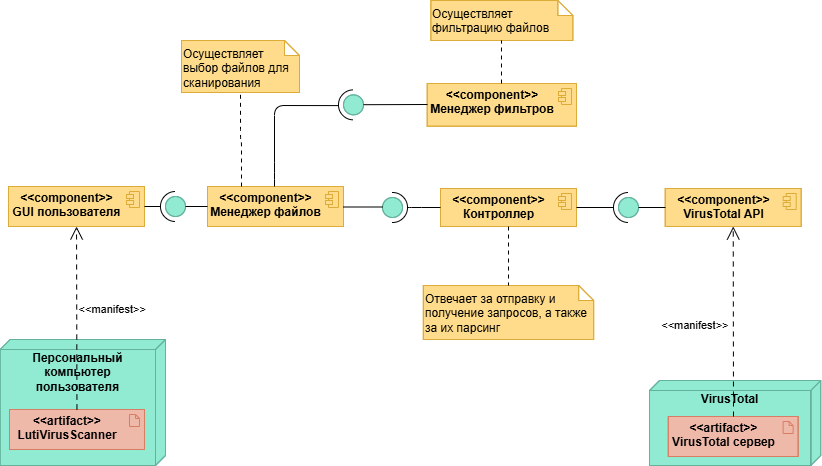
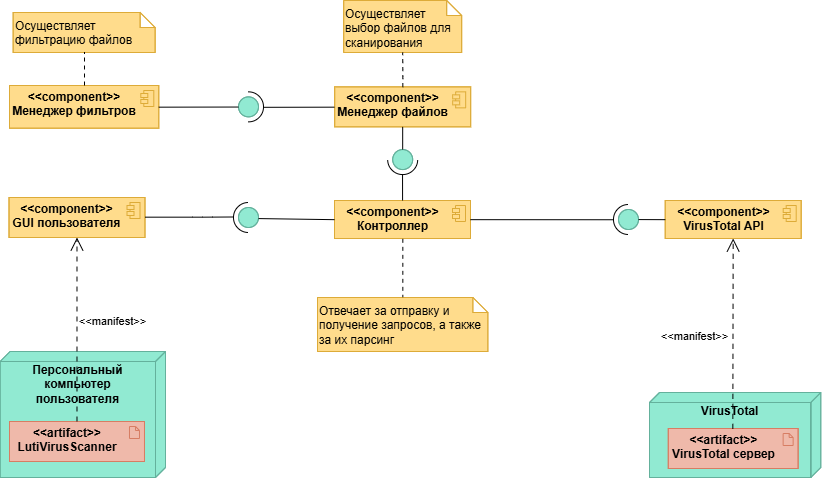
Added ClassDiagram and event flow, changed component diagram

diff --git a/docs/diagrams/Diagrams.md b/docs/diagrams/Diagrams.md
@@ -120,3 +120,83 @@
 
 <a name="log_in_event"/>
 
+## 8.1 — Ввод API-ключа
+
+**Описание.** Пользователь вводит персональный API-ключ для работы с сервисом VirusTotal.
+**Предусловия.** Приложение запущено впервые или API-ключ отсутствует/некорректен.
+**Основной поток.**
+1. Приложение отображает окно входа в приложение и запрашивает ввод API-ключа.
+2. Пользователь вводит ключ в поле.
+3. Пользователь нажимает «Confirm».
+4. Приложение проверяет валидность ключа через запрос к VirusTotal. Если проверка не пройдена, выполняется альтернативный поток А1. Если соединение отсутствует, выполняется альтернативный поток А2.
+5. Приложение скрывает окно входа и открывает главное окно приложения.
+6. Вариант использования завершается.
+
+**Альтернативные поток А1.**
+1. Приложение выводит окно с сообщением о некорректном API-ключе.
+2. Возврат к п.2 основного потока.
+
+**Альтернативные поток А2.**
+1. Приложение выводит окно с сообщением об отсутствии подключения.
+2. Возврат к п.2 основного потока.
+
+Постусловие:
+Ключ сохранён и приложение переходит к главному окну.
+
+## 8.2 — Выбор файла или папки для проверки
+
+**Описание.** Пользователь выбирает путь для проверки на вредоносное ПО.
+**Основной поток.**
+1. Приложение отображает главное окно программы.
+2. Пользователь нажимает «Choose file or directory».
+3. Приложение открывает системный диалог выбора пути.
+4. Пользователь подтверждает выбор.
+5. Приложение проверяет наличие файлов в папке. Если папка пуста, выполняется альтернативный поток А3.
+6. Приложение проверяет валидность ключа через запрос к VirusTotal. Если проверка не пройдена, выполняется альтернативный поток А4. Если соединение отсутствует, выполняется альтернативный поток А5.
+7. Приложение проводит фильтрацию выбранных файлов согласно заданным пользователем фильтров.
+8. Приложение отправляет запрос на сканирование этих файлов.
+9. Приложение отправляет запрос на получение отчетов о сканировании файлов.
+10. Приложение выводит в главном окне результаты сканирования файлов.
+11. Вариант использования завершается.
+
+**Альтернативные поток А3.**
+1. Приложение выводит окно с сообщением о выборе папки без каких-либо файлов.
+2. Возврат к п.2 основного потока.
+
+**Альтернативные поток А4.**
+1. Приложение выводит окно с сообщением о некорректном API-ключе.
+2. Возврат к п.2 основного потока.
+
+**Альтернативные поток А5.**
+1. Приложение выводит окно с сообщением об отсутствии подключения.
+2. Возврат к п.2 основного потока.
+
+## 8.3 — Сохранение детального отчёта
+
+**Описание.** Пользователь изучает детальную информацию по анализу файла.
+**Предусловия.** Анализ файла был выполнен.
+**Основной поток.**
+1. Приложение отображает главное окно программы.
+2. Пользователь нажимает на файл в списке проанализированных файлов.
+3. Приложение открывает окно с детальным отчётом.
+4. Пользователь нажимает на кнопку "Save".
+5. Приложение открывает системный диалог выбора пути для сохранения отчета.
+6. Вариант использования завершается.
+
+## 8.4 — Настройка фильтров проверки
+
+**Описание.** Пользователь устанавливает критерии отбора файлов.
+**Предусловия.** Пользователь нажал на кнопку "Filter settings" в главном окне.
+**Основной поток.**
+1. Приложение отображает окно с текущими фильтрами.
+2. Пользователь указывает расширения или названия файлов для фильтрации.
+3. Пользователь нажимает на кнопку "Save".
+4. Приложение проверяет новые фильтры. Если проверка не пройдена, выполняется альтернативный поток А6.
+5. Приложение сохраняет новые фильтры в специальный файл.
+6. Приложение закрывает окно с фильтрами.
+7. Вариант использования завершается.
+
+**Альтернативный поток А6**
+
+1. Приложение выводит окно с сообщением о некорректно введенных фильтрах.
+2. Возврат к п.2 основного потока.

diff --git a/README.md b/README.md
@@ -10,3 +10,5 @@ Interface language: Qt.
 [SRS of program](https://github.com/skritigus/LutiVirusScanner/blob/main/docs/SRS.md) 
 
 [User interface images](https://github.com/skritigus/LutiVirusScanner/tree/main/docs/mockups)
+
+[Diagrams](https://github.com/skritigus/LutiVirusScanner/blob/main/docs/diagrams/Diagrams.md)
